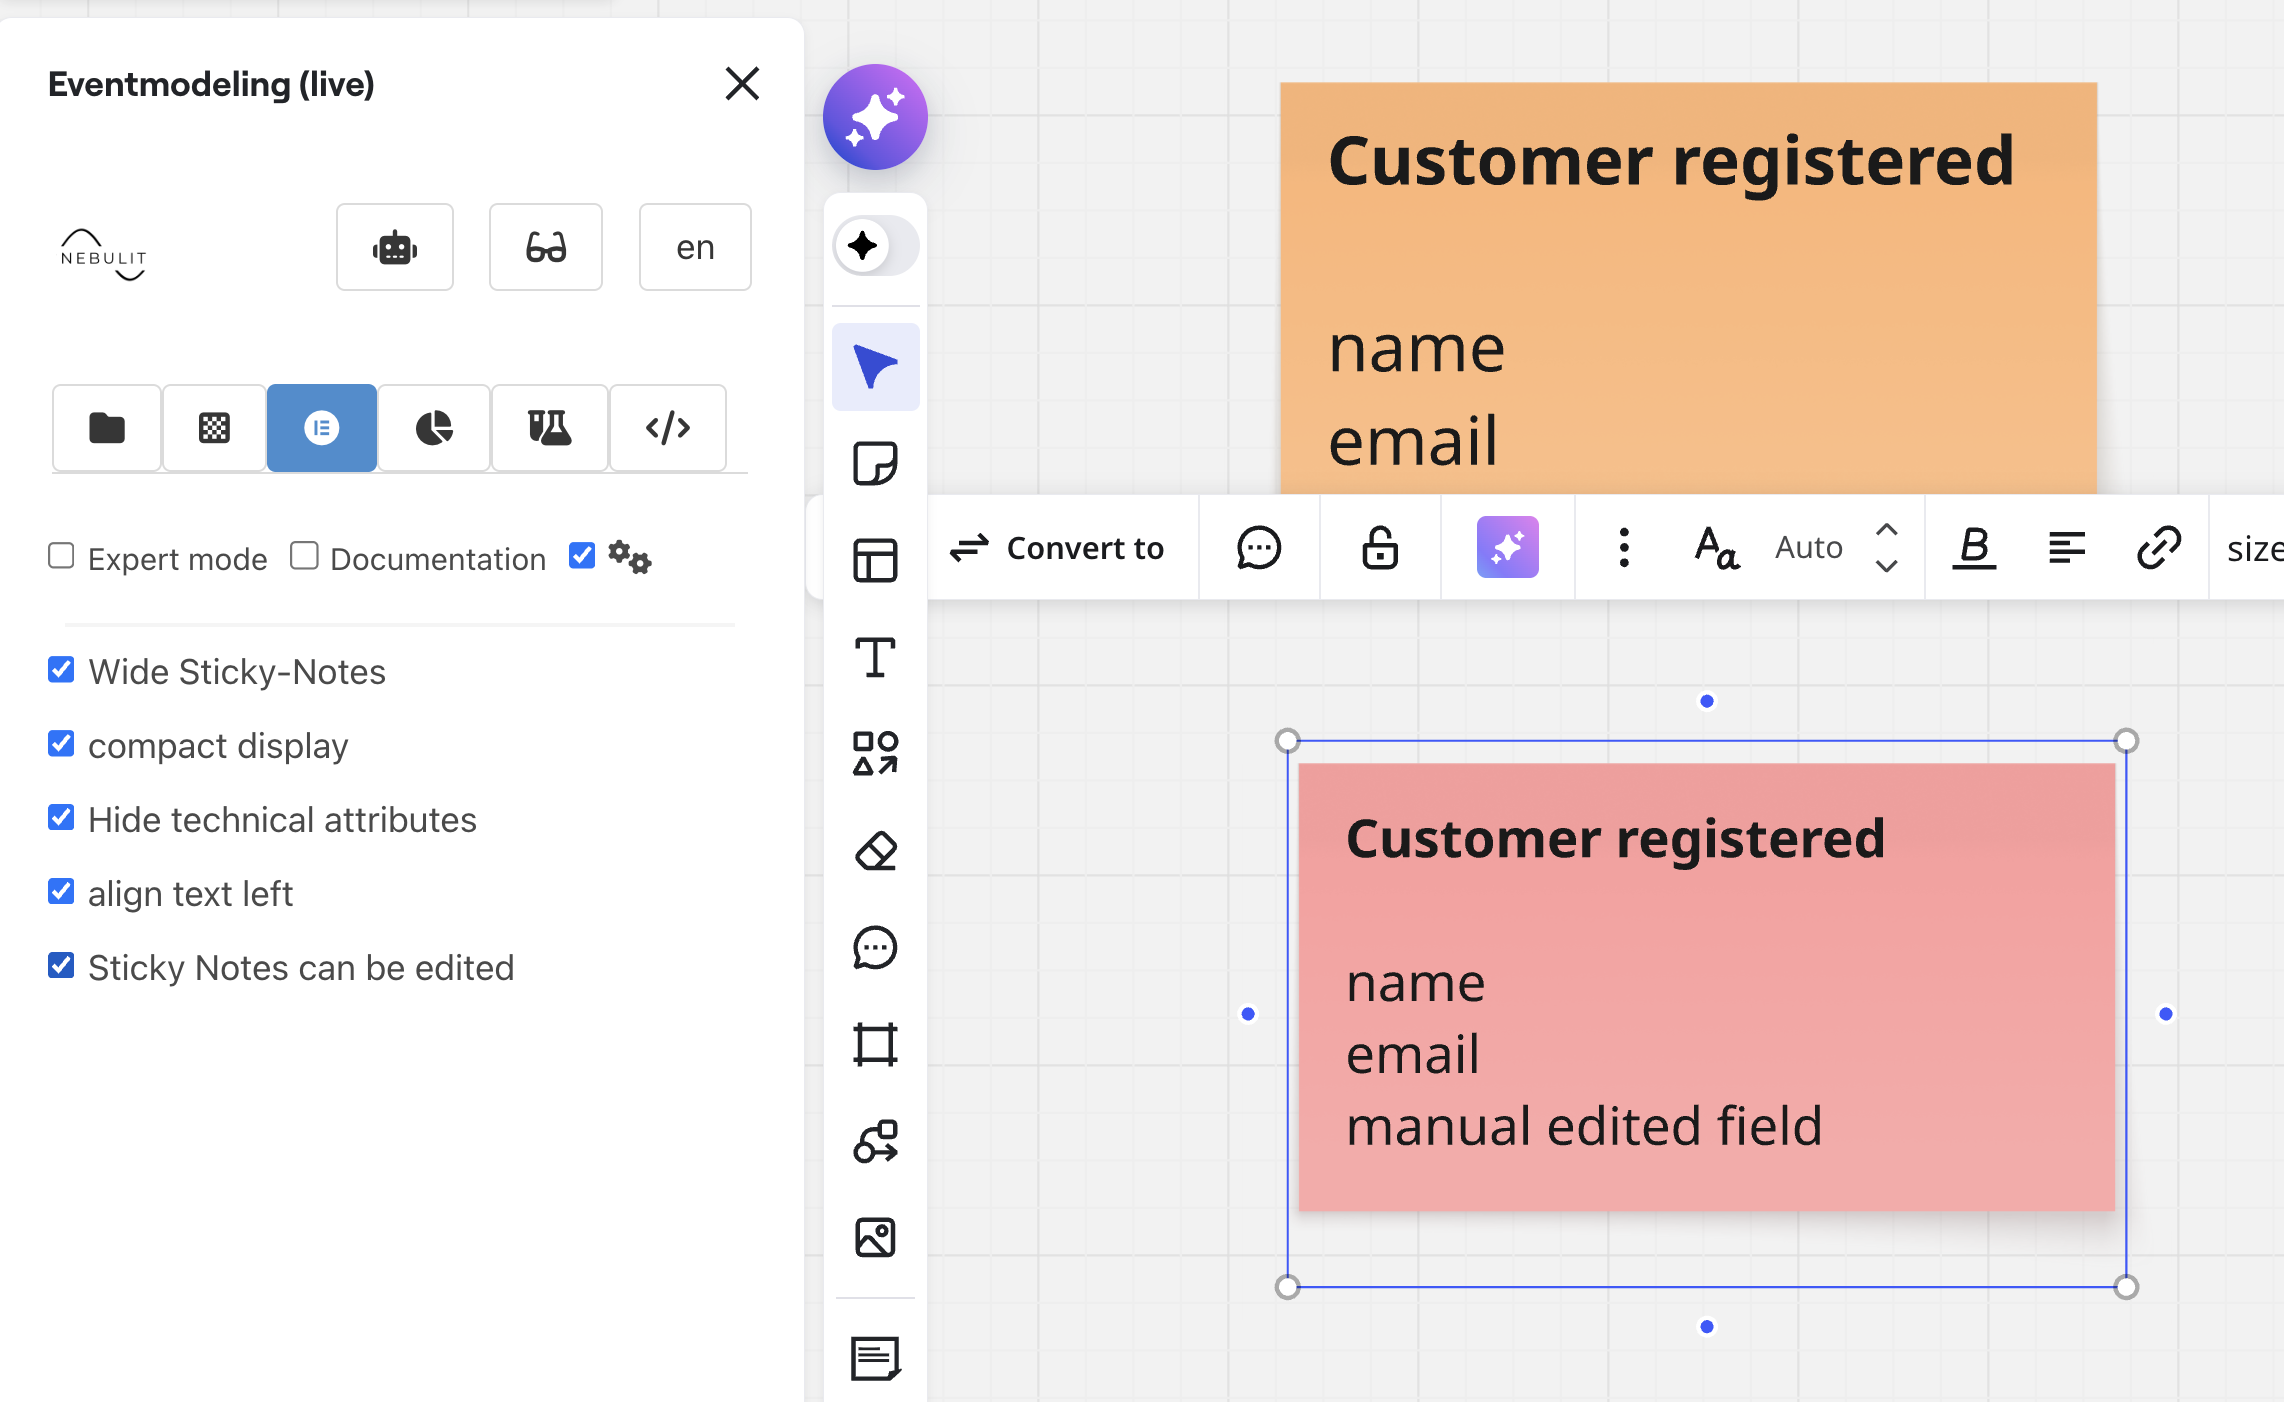
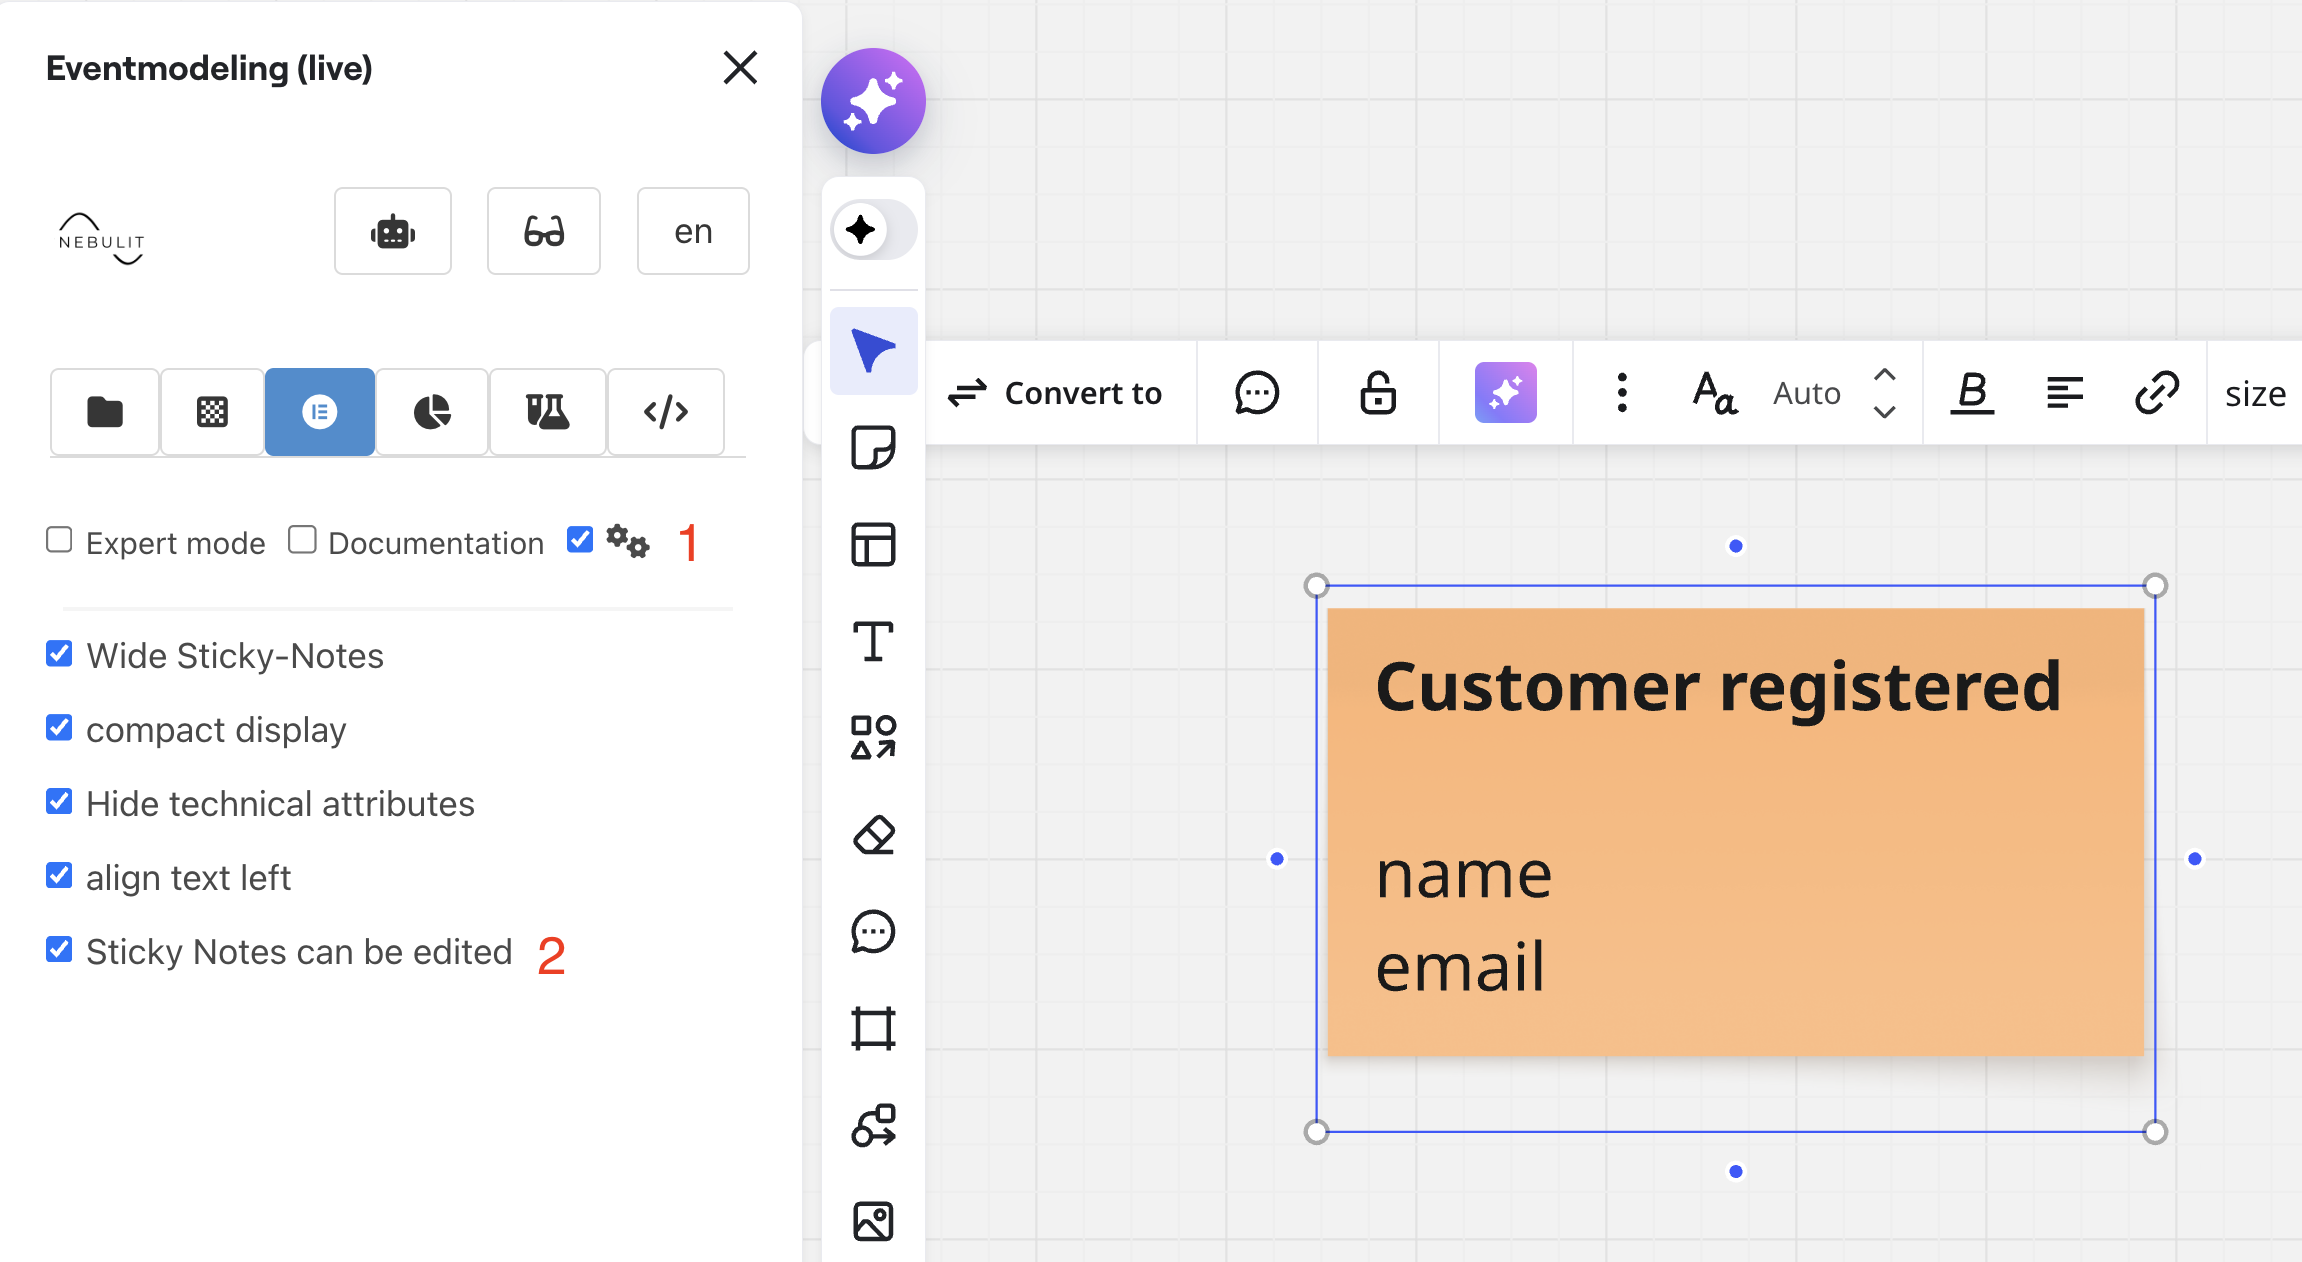
blosmit

diff --git a/docs/basic-modeling-topics/manual-editing.md b/docs/basic-modeling-topics/manual-editing.md
@@ -7,7 +7,11 @@ title: Slice View
 
 ATTENTION: Manuel Editing requires Opt-In. You need to activate it per configuration.
 
-Select any Element and open the configuration. Activate "Sticky notes can be edited"
+Select any Element ( Command, Event or Read Model )
+
+1) Open the configuration
+
+2) Activate "Sticky notes can be edited"
 
 ![Conversion View]({{ '/assets/images/tutorial/data_view/manual_edit/manual_edit00.png' | relative_url }})
 
